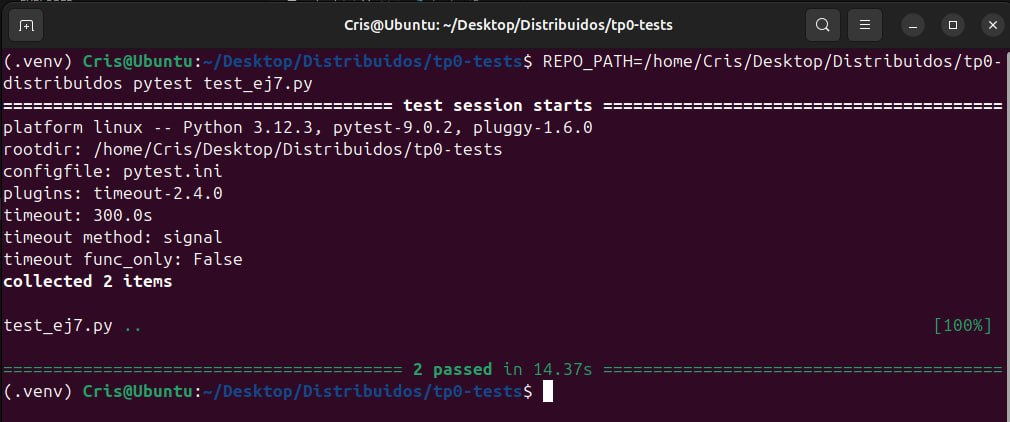
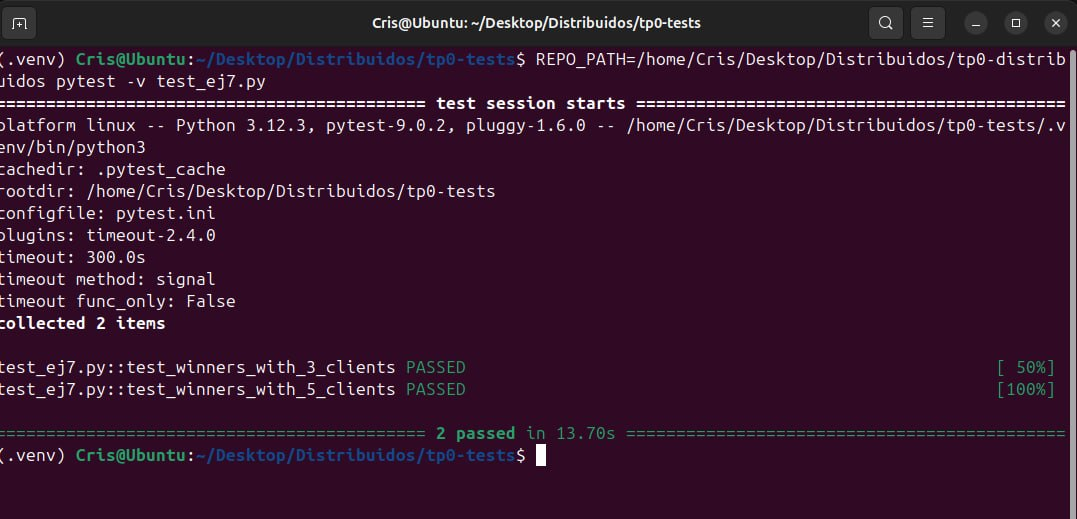
add: add readme with the documentation of the solution implemented

Changed region(s): [[0.0, 0.0, 1.0, 1.0]]

diff --git a/README.md b/README.md
@@ -1,164 +1,119 @@
-# TP0: Docker + Comunicaciones + Concurrencia
+ TP0: Docker + Comunicaciones + Concurrencia
 
-En el presente repositorio se provee un esqueleto básico de cliente/servidor, en donde todas las dependencias del mismo se encuentran encapsuladas en containers. Los alumnos deberán resolver una guía de ejercicios incrementales, teniendo en cuenta las condiciones de entrega descritas al final de este enunciado.
-
- El cliente (Golang) y el servidor (Python) fueron desarrollados en diferentes lenguajes simplemente para mostrar cómo dos lenguajes de programación pueden convivir en el mismo proyecto con la ayuda de containers, en este caso utilizando [Docker Compose](https://docs.docker.com/compose/).
-
-## Instrucciones de uso
-El repositorio cuenta con un **Makefile** que incluye distintos comandos en forma de targets. Los targets se ejecutan mediante la invocación de:  **make \<target\>**. Los target imprescindibles para iniciar y detener el sistema son **docker-compose-up** y **docker-compose-down**, siendo los restantes targets de utilidad para el proceso de depuración.
-
-Los targets disponibles son:
-
-| target  | accion  |
-|---|---|
-|  `docker-compose-up`  | Inicializa el ambiente de desarrollo. Construye las imágenes del cliente y el servidor, inicializa los recursos a utilizar (volúmenes, redes, etc) e inicia los propios containers. |
-| `docker-compose-down`  | Ejecuta `docker-compose stop` para detener los containers asociados al compose y luego  `docker-compose down` para destruir todos los recursos asociados al proyecto que fueron inicializados. Se recomienda ejecutar este comando al finalizar cada ejecución para evitar que el disco de la máquina host se llene de versiones de desarrollo y recursos sin liberar. |
-|  `docker-compose-logs` | Permite ver los logs actuales del proyecto. Acompañar con `grep` para lograr ver mensajes de una aplicación específica dentro del compose. |
-| `docker-image`  | Construye las imágenes a ser utilizadas tanto en el servidor como en el cliente. Este target es utilizado por **docker-compose-up**, por lo cual se lo puede utilizar para probar nuevos cambios en las imágenes antes de arrancar el proyecto. |
-| `build` | Compila la aplicación cliente para ejecución en el _host_ en lugar de en Docker. De este modo la compilación es mucho más veloz, pero requiere contar con todo el entorno de Golang y Python instalados en la máquina _host_. |
-
-### Servidor
-
-Se trata de un "echo server", en donde los mensajes recibidos por el cliente se responden inmediatamente y sin alterar. 
-
-Se ejecutan en bucle las siguientes etapas:
-
-1. Servidor acepta una nueva conexión.
-2. Servidor recibe mensaje del cliente y procede a responder el mismo.
-3. Servidor desconecta al cliente.
-4. Servidor retorna al paso 1.
-
-
-### Cliente
- se conecta reiteradas veces al servidor y envía mensajes de la siguiente forma:
- 
-1. Cliente se conecta al servidor.
-2. Cliente genera mensaje incremental.
-3. Cliente envía mensaje al servidor y espera mensaje de respuesta.
-4. Servidor responde al mensaje.
-5. Servidor desconecta al cliente.
-6. Cliente verifica si aún debe enviar un mensaje y si es así, vuelve al paso 2.
-
-### Ejemplo
-
-Al ejecutar el comando `make docker-compose-up`  y luego  `make docker-compose-logs`, se observan los siguientes logs:
-
-```
-client1  | 2024-08-21 22:11:15 INFO     action: config | result: success | client_id: 1 | server_address: server:12345 | loop_amount: 5 | loop_period: 5s | log_level: DEBUG
-client1  | 2024-08-21 22:11:15 INFO     action: receive_message | result: success | client_id: 1 | msg: [CLIENT 1] Message N°1
-server   | 2024-08-21 22:11:14 DEBUG    action: config | result: success | port: 12345 | listen_backlog: 5 | logging_level: DEBUG
-server   | 2024-08-21 22:11:14 INFO     action: accept_connections | result: in_progress
-server   | 2024-08-21 22:11:15 INFO     action: accept_connections | result: success | ip: 172.25.125.3
-server   | 2024-08-21 22:11:15 INFO     action: receive_message | result: success | ip: 172.25.125.3 | msg: [CLIENT 1] Message N°1
-server   | 2024-08-21 22:11:15 INFO     action: accept_connections | result: in_progress
-server   | 2024-08-21 22:11:20 INFO     action: accept_connections | result: success | ip: 172.25.125.3
-server   | 2024-08-21 22:11:20 INFO     action: receive_message | result: success | ip: 172.25.125.3 | msg: [CLIENT 1] Message N°2
-server   | 2024-08-21 22:11:20 INFO     action: accept_connections | result: in_progress
-client1  | 2024-08-21 22:11:20 INFO     action: receive_message | result: success | client_id: 1 | msg: [CLIENT 1] Message N°2
-server   | 2024-08-21 22:11:25 INFO     action: accept_connections | result: success | ip: 172.25.125.3
-server   | 2024-08-21 22:11:25 INFO     action: receive_message | result: success | ip: 172.25.125.3 | msg: [CLIENT 1] Message N°3
-client1  | 2024-08-21 22:11:25 INFO     action: receive_message | result: success | client_id: 1 | msg: [CLIENT 1] Message N°3
-server   | 2024-08-21 22:11:25 INFO     action: accept_connections | result: in_progress
-server   | 2024-08-21 22:11:30 INFO     action: accept_connections | result: success | ip: 172.25.125.3
-server   | 2024-08-21 22:11:30 INFO     action: receive_message | result: success | ip: 172.25.125.3 | msg: [CLIENT 1] Message N°4
-server   | 2024-08-21 22:11:30 INFO     action: accept_connections | result: in_progress
-client1  | 2024-08-21 22:11:30 INFO     action: receive_message | result: success | client_id: 1 | msg: [CLIENT 1] Message N°4
-server   | 2024-08-21 22:11:35 INFO     action: accept_connections | result: success | ip: 172.25.125.3
-server   | 2024-08-21 22:11:35 INFO     action: receive_message | result: success | ip: 172.25.125.3 | msg: [CLIENT 1] Message N°5
-client1  | 2024-08-21 22:11:35 INFO     action: receive_message | result: success | client_id: 1 | msg: [CLIENT 1] Message N°5
-server   | 2024-08-21 22:11:35 INFO     action: accept_connections | result: in_progress
-client1  | 2024-08-21 22:11:40 INFO     action: loop_finished | result: success | client_id: 1
-client1 exited with code 0
-```
-
+Cristian Martin Lin - 107825
 
 ## Parte 1: Introducción a Docker
-En esta primera parte del trabajo práctico se plantean una serie de ejercicios que sirven para introducir las herramientas básicas de Docker que se utilizarán a lo largo de la materia. El entendimiento de las mismas será crucial para el desarrollo de los próximos TPs.
 
 ### Ejercicio N°1:
-Definir un script de bash `generar-compose.sh` que permita crear una definición de Docker Compose con una cantidad configurable de clientes.  El nombre de los containers deberá seguir el formato propuesto: client1, client2, client3, etc. 
+Se implementó el script `generar-compose.sh` en la raíz del proyecto para generar un archivo Docker Compose con una cantidad configurable de clientes.
 
-El script deberá ubicarse en la raíz del proyecto y recibirá por parámetro el nombre del archivo de salida y la cantidad de clientes esperados:
+**Ejecución:**
+```bash
+./generar-compose.sh <arhcivo_salida> N
 
-`./generar-compose.sh docker-compose-dev.yaml 5`
-
-Considerar que en el contenido del script pueden invocar un subscript de Go o Python:
-
-```
-#!/bin/bash
-echo "Nombre del archivo de salida: $1"
-echo "Cantidad de clientes: $2"
-python3 mi-generador.py $1 $2
+# Ejemplo
+./generar-compose.sh docker-compose-dev.yaml 5
 ```
 
-En el archivo de Docker Compose de salida se pueden definir volúmenes, variables de entorno y redes con libertad, pero recordar actualizar este script cuando se modifiquen tales definiciones en los sucesivos ejercicios.
+Luego, se puede levantar el entorno con:
+```bash
+make docker-compose-up
+```
 
 ### Ejercicio N°2:
-Modificar el cliente y el servidor para lograr que realizar cambios en el archivo de configuración no requiera reconstruír las imágenes de Docker para que los mismos sean efectivos. La configuración a través del archivo correspondiente (`config.ini` y `config.yaml`, dependiendo de la aplicación) debe ser inyectada en el container y persistida por fuera de la imagen (hint: `docker volumes`).
+Para evitar tener que reconstruir las imágenes al modificar la configuración, se inyectaron los archivos de config como volúmenes dentro de los containers:
 
+- Servidor: se monta `./server/config.ini` en `/config.ini`
+- Cliente(s): se monta `./client/config.yaml` en `/config.yaml`
+
+De esta forma, cualquier cambio en los archivos `config.ini` / `config.yaml` impacta directamente al ejecutar el contenedor, ya que los archivos quedan persistidos por fuera de la imagen. Se levanta de la misma manera que el ejercicio 1.
 
 ### Ejercicio N°3:
-Crear un script de bash `validar-echo-server.sh` que permita verificar el correcto funcionamiento del servidor utilizando el comando `netcat` para interactuar con el mismo. Dado que el servidor es un echo server, se debe enviar un mensaje al servidor y esperar recibir el mismo mensaje enviado.
+Se implementó el script `validar-echo-server.sh` para verificar el correcto funcionamiento del servidor (echo server) usando `netcat`, sin instalarlo en la máquina host y sin exponer puertos.
 
-En caso de que la validación sea exitosa imprimir: `action: test_echo_server | result: success`, de lo contrario imprimir:`action: test_echo_server | result: fail`.
+**Detalle de la solución:**
+- El script primero verifica que el container `server` esté corriendo.
+- Obtiene dinámicamente la red Docker a la que está conectado el servidor (vía `docker inspect`).
+- Genera un mensaje único con timestamp.
+- Levanta un contenedor efímero `alpine` conectado a esa misma red, instala `netcat` dentro del contenedor y envía el mensaje al servidor.
+- Si la respuesta coincide exactamente con el mensaje enviado imprime:
+  - `action: test_echo_server | result: success`
+  - en caso contrario: `action: test_echo_server | result: fail`
 
-El script deberá ubicarse en la raíz del proyecto. Netcat no debe ser instalado en la máquina _host_ y no se pueden exponer puertos del servidor para realizar la comunicación (hint: `docker network`). `
 
+**Ejecución:**
+1. Levantar el entorno:
+```bash
+./generar-compose.sh docker-compose-dev.yaml N
+
+make docker-compose-up
+```
+
+2. Ejecutar el validador:
+```bash
+./validar-echo-server.sh
+```
 
 ### Ejercicio N°4:
-Modificar servidor y cliente para que ambos sistemas terminen de forma _graceful_ al recibir la signal SIGTERM. Terminar la aplicación de forma _graceful_ implica que todos los _file descriptors_ (entre los que se encuentran archivos, sockets, threads y procesos) deben cerrarse correctamente antes que el thread de la aplicación principal muera. Loguear mensajes en el cierre de cada recurso (hint: Verificar que hace el flag `-t` utilizado en el comando `docker compose down`).
+Se agregó manejo de la señal SIGTERM tanto en servidor como en cliente para lograr un cierre graceful, liberando correctamente los recursos (sockets) antes de terminar el proceso.
+
+- **Cliente (Go):** al recibir SIGTERM se cancela la ejecución, se corta el loop y se cierra el socket.
+- **Servidor (Python):** al recibir SIGTERM se llama a `server.stop()` para cerrar el socket de escucha y terminar el loop de `accept()`.
+
+**Cómo probar el shutdown graceful:**
+Con el entorno levantado, puede enviarse SIGTERM usando:
+```bash
+docker compose -f docker-compose-dev.yaml stop -t <segundos>
+```
 
 ## Parte 2: Repaso de Comunicaciones
 
-Las secciones de repaso del trabajo práctico plantean un caso de uso denominado **Lotería Nacional**. Para la resolución de las mismas deberá utilizarse como base el código fuente provisto en la primera parte, con las modificaciones agregadas en el ejercicio 4.
-
 ### Ejercicio N°5:
-Modificar la lógica de negocio tanto de los clientes como del servidor para nuestro nuevo caso de uso.
+Se modificó el cliente y el servidor para enviar y almacenar apuestas.
 
-#### Cliente
-Emulará a una _agencia de quiniela_ que participa del proyecto. Existen 5 agencias. Deberán recibir como variables de entorno los campos que representan la apuesta de una persona: nombre, apellido, DNI, nacimiento, numero apostado (en adelante 'número'). Ej.: `NOMBRE=Santiago Lionel`, `APELLIDO=Lorca`, `DOCUMENTO=30904465`, `NACIMIENTO=1999-03-17` y `NUMERO=7574` respectivamente.
+- **Cliente (Go):** toma la apuesta desde variables de entorno (`NOMBRE`, `APELLIDO`, `DOCUMENTO`, `NACIMIENTO`, `NUMERO` + `CLI_ID` como id de agencia), la envía al servidor y espera un ACK. Si el ACK indica éxito loguea:  
+  `action: apuesta_enviada | result: success | dni: ${DNI} | numero: ${NUMERO}`
 
-Los campos deben enviarse al servidor para dejar registro de la apuesta. Al recibir la confirmación del servidor se debe imprimir por log: `action: apuesta_enviada | result: success | dni: ${DNI} | numero: ${NUMERO}`.
+- **Servidor (Python):** recibe la apuesta, la almacena usando `store_bets(...)` (provista por la cátedra) y responde con ACK. Si persiste correctamente loguea:  
+  `action: apuesta_almacenada | result: success | dni: ${DNI} | numero: ${NUMERO}`
 
-
-
-#### Servidor
-Emulará a la _central de Lotería Nacional_. Deberá recibir los campos de la cada apuesta desde los clientes y almacenar la información mediante la función `store_bet(...)` para control futuro de ganadores. La función `store_bet(...)` es provista por la cátedra y no podrá ser modificada por el alumno.
-Al persistir se debe imprimir por log: `action: apuesta_almacenada | result: success | dni: ${DNI} | numero: ${NUMERO}`.
-
-#### Comunicación:
-Se deberá implementar un módulo de comunicación entre el cliente y el servidor donde se maneje el envío y la recepción de los paquetes, el cual se espera que contemple:
-* Definición de un protocolo para el envío de los mensajes.
-* Serialización de los datos.
-* Correcta separación de responsabilidades entre modelo de dominio y capa de comunicación.
-* Correcto empleo de sockets, incluyendo manejo de errores y evitando los fenómenos conocidos como [_short read y short write_](https://cs61.seas.harvard.edu/site/2018/FileDescriptors/).
-
+**Protocolo / Comunicación:**
+- Se implementó un framing: `u32` big-endian con el largo del payload + `payload`.
+- `payload`:
+  - `msg_type` (1 byte)
+  - campos en orden fijo (strings con largo `u16` + bytes UTF-8, y `number` como `u32` BE)
+- La respuesta del servidor es un ACK (`msg_type` + status OK/ERROR).  
+Esto evita *short read/write* leyendo/escribiendo exactamente la cantidad de bytes indicada.
 
 ### Ejercicio N°6:
-Modificar los clientes para que envíen varias apuestas a la vez (modalidad conocida como procesamiento por _chunks_ o _batchs_). 
-Los _batchs_ permiten que el cliente registre varias apuestas en una misma consulta, acortando tiempos de transmisión y procesamiento.
+Los clientes envían apuestas en batches. Cada cliente lee sus apuestas desde `.data/agency-{N}.csv`, inyectado al contenedor por volumen, y las envía al servidor en chunks de tamaño configurable por `batch.maxAmount` en `client/config.yaml` (limitando el tamaño de los paquetes).
 
-La información de cada agencia será simulada por la ingesta de su archivo numerado correspondiente, provisto por la cátedra dentro de `.data/datasets.zip`.
-Los archivos deberán ser inyectados en los containers correspondientes y persistido por fuera de la imagen (hint: `docker volumes`), manteniendo la convencion de que el cliente N utilizara el archivo de apuestas `.data/agency-{N}.csv` .
+- **Cliente:** lee el CSV, lo divide en batches y envía un mensaje por batch.
+- **Servidor:** procesa todas las apuestas del batch; si todas se persisten con `store_bets(...)` responde OK y loguea  
+  `action: apuesta_recibida | result: success | cantidad: ${CANTIDAD}`  
+  si falla alguna, responde ERROR y loguea el mismo `action` con `result: fail`.
 
-En el servidor, si todas las apuestas del *batch* fueron procesadas correctamente, imprimir por log: `action: apuesta_recibida | result: success | cantidad: ${CANTIDAD_DE_APUESTAS}`. En caso de detectar un error con alguna de las apuestas, debe responder con un código de error a elección e imprimir: `action: apuesta_recibida | result: fail | cantidad: ${CANTIDAD_DE_APUESTAS}`.
-
-La cantidad máxima de apuestas dentro de cada _batch_ debe ser configurable desde config.yaml. Respetar la clave `batch: maxAmount`, pero modificar el valor por defecto de modo tal que los paquetes no excedan los 8kB. 
-
-Por su parte, el servidor deberá responder con éxito solamente si todas las apuestas del _batch_ fueron procesadas correctamente.
+**Protocolo:**
+Se mantiene el framing del Ej. 5 (`u32` BE + payload) y se agrega `MSG_BATCH`, que incluye `cantidad (u16)` + apuestas en orden fijo.
 
 ### Ejercicio N°7:
+Al finalizar el envío de apuestas, cada cliente notifica al servidor con `FIN` y luego consulta los ganadores de su agencia.
 
-Modificar los clientes para que notifiquen al servidor al finalizar con el envío de todas las apuestas y así proceder con el sorteo.
-Inmediatamente después de la notificacion, los clientes consultarán la lista de ganadores del sorteo correspondientes a su agencia.
-Una vez el cliente obtenga los resultados, deberá imprimir por log: `action: consulta_ganadores | result: success | cant_ganadores: ${CANT}`.
+- **Cliente:** envía `MSG_FIN` (incluye `agency`) y luego consulta con `MSG_GET_WINNERS`. Al recibir la respuesta imprime:  
+  `action: consulta_ganadores | result: success | cant_ganadores: ${CANT}`
 
-El servidor deberá esperar la notificación de las 5 agencias para considerar que se realizó el sorteo e imprimir por log: `action: sorteo | result: success`.
-Luego de este evento, podrá verificar cada apuesta con las funciones `load_bets(...)` y `has_won(...)` y retornar los DNI de los ganadores de la agencia en cuestión. Antes del sorteo no se podrán responder consultas por la lista de ganadores con información parcial.
+- **Servidor:** acumula las notificaciones `FIN` de las agencias. Cuando recibe `FIN` de todas las agencias participantes realiza el sorteo (usando `load_bets(...)` + `has_won(...)`) e imprime:  
+  `action: sorteo | result: success`  
+  Luego responde a cada consulta sólo con los DNIs ganadores de esa agencia (sin broadcast).
 
-Las funciones `load_bets(...)` y `has_won(...)` son provistas por la cátedra y no podrán ser modificadas por el alumno.
+**Protocolo:**
+Se mantiene el framing (`u32` BE + payload) y se agregan:
+- `MSG_FIN` (cliente → servidor): fin de envío de una agencia.
+- `MSG_GET_WINNERS` (cliente → servidor): consulta ganadores de una agencia.
+- `MSG_WINNERS` (servidor → cliente): lista de DNIs ganadores filtrada por agencia.
 
-No es correcto realizar un broadcast de todos los ganadores hacia todas las agencias, se espera que se informen los DNIs ganadores que correspondan a cada una de ellas.
+**Resultado de tests provista por la cátedra:**
+![Resultado de tests - Ejercicio 7](images/screenshot_test_ej7.jpg)
 
 ## Parte 3: Repaso de Concurrencia
 En este ejercicio es importante considerar los mecanismos de sincronización a utilizar para el correcto funcionamiento de la persistencia.
